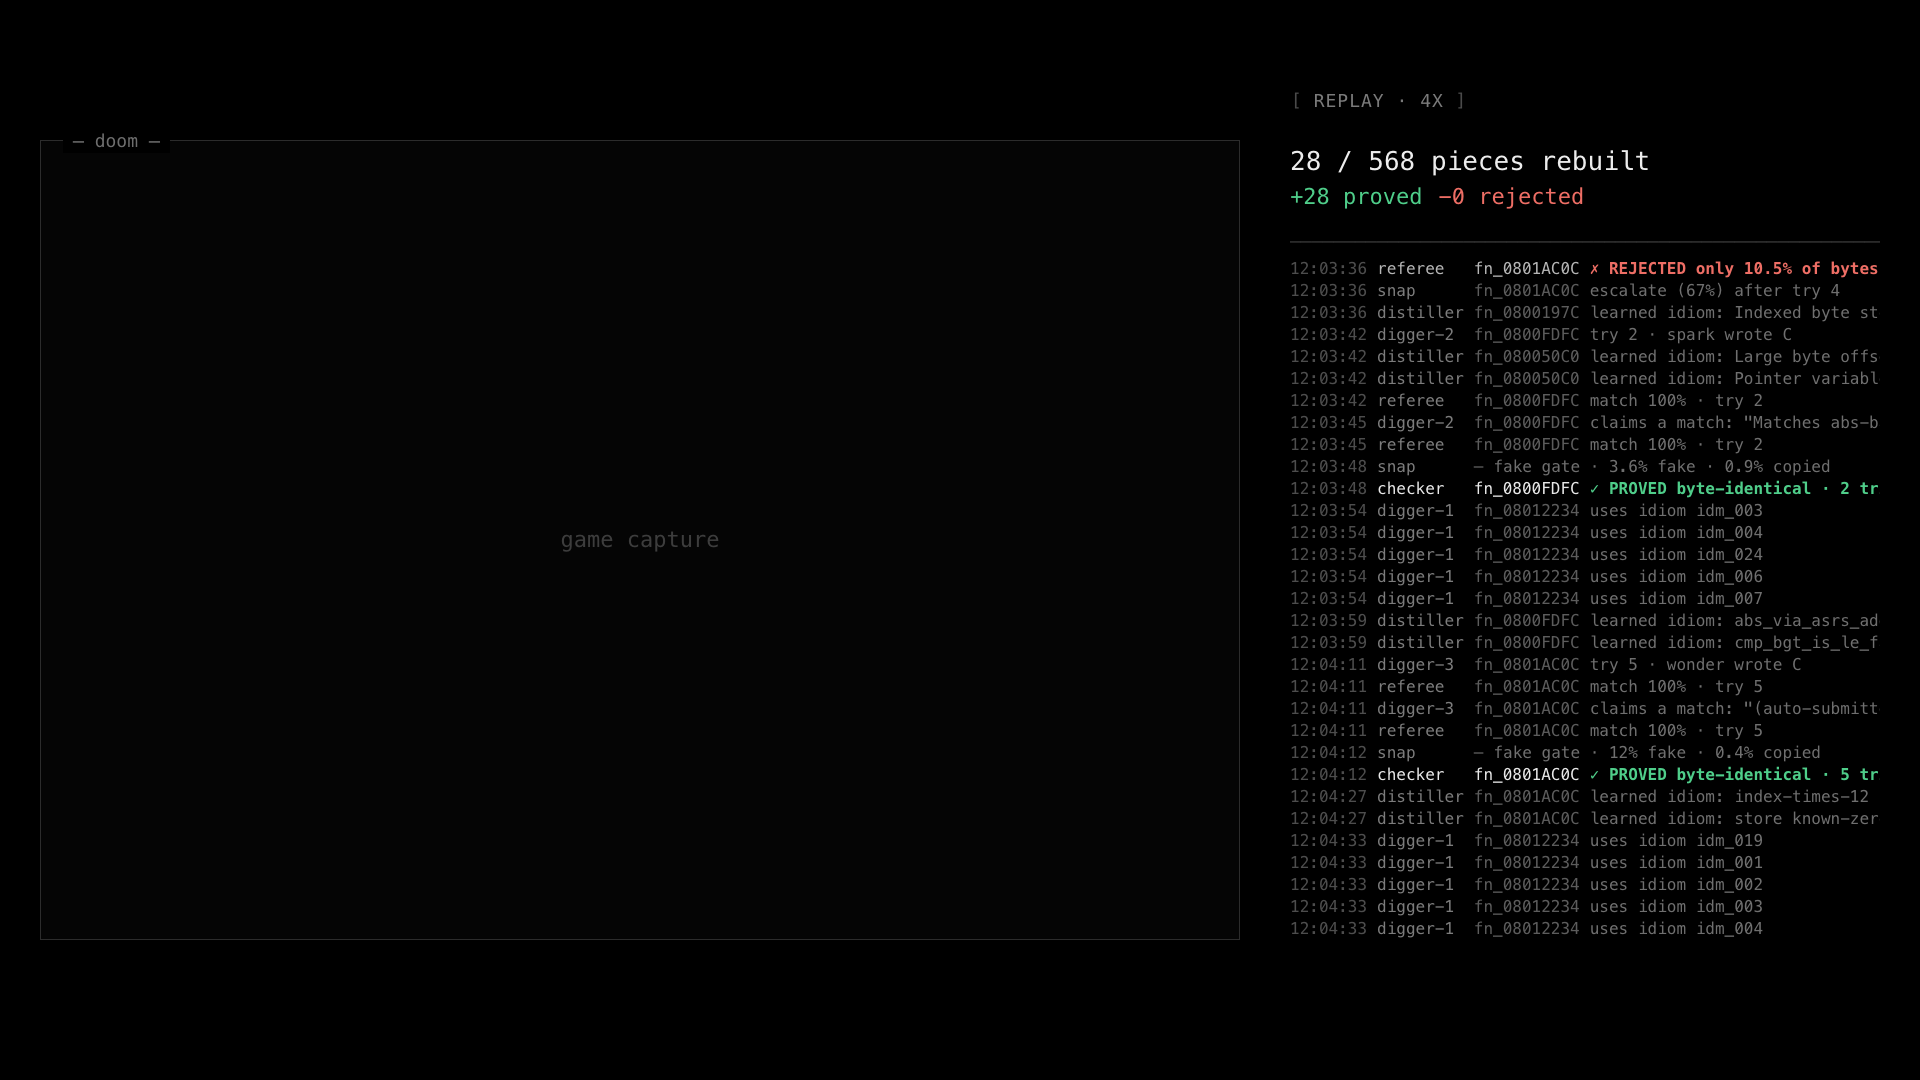
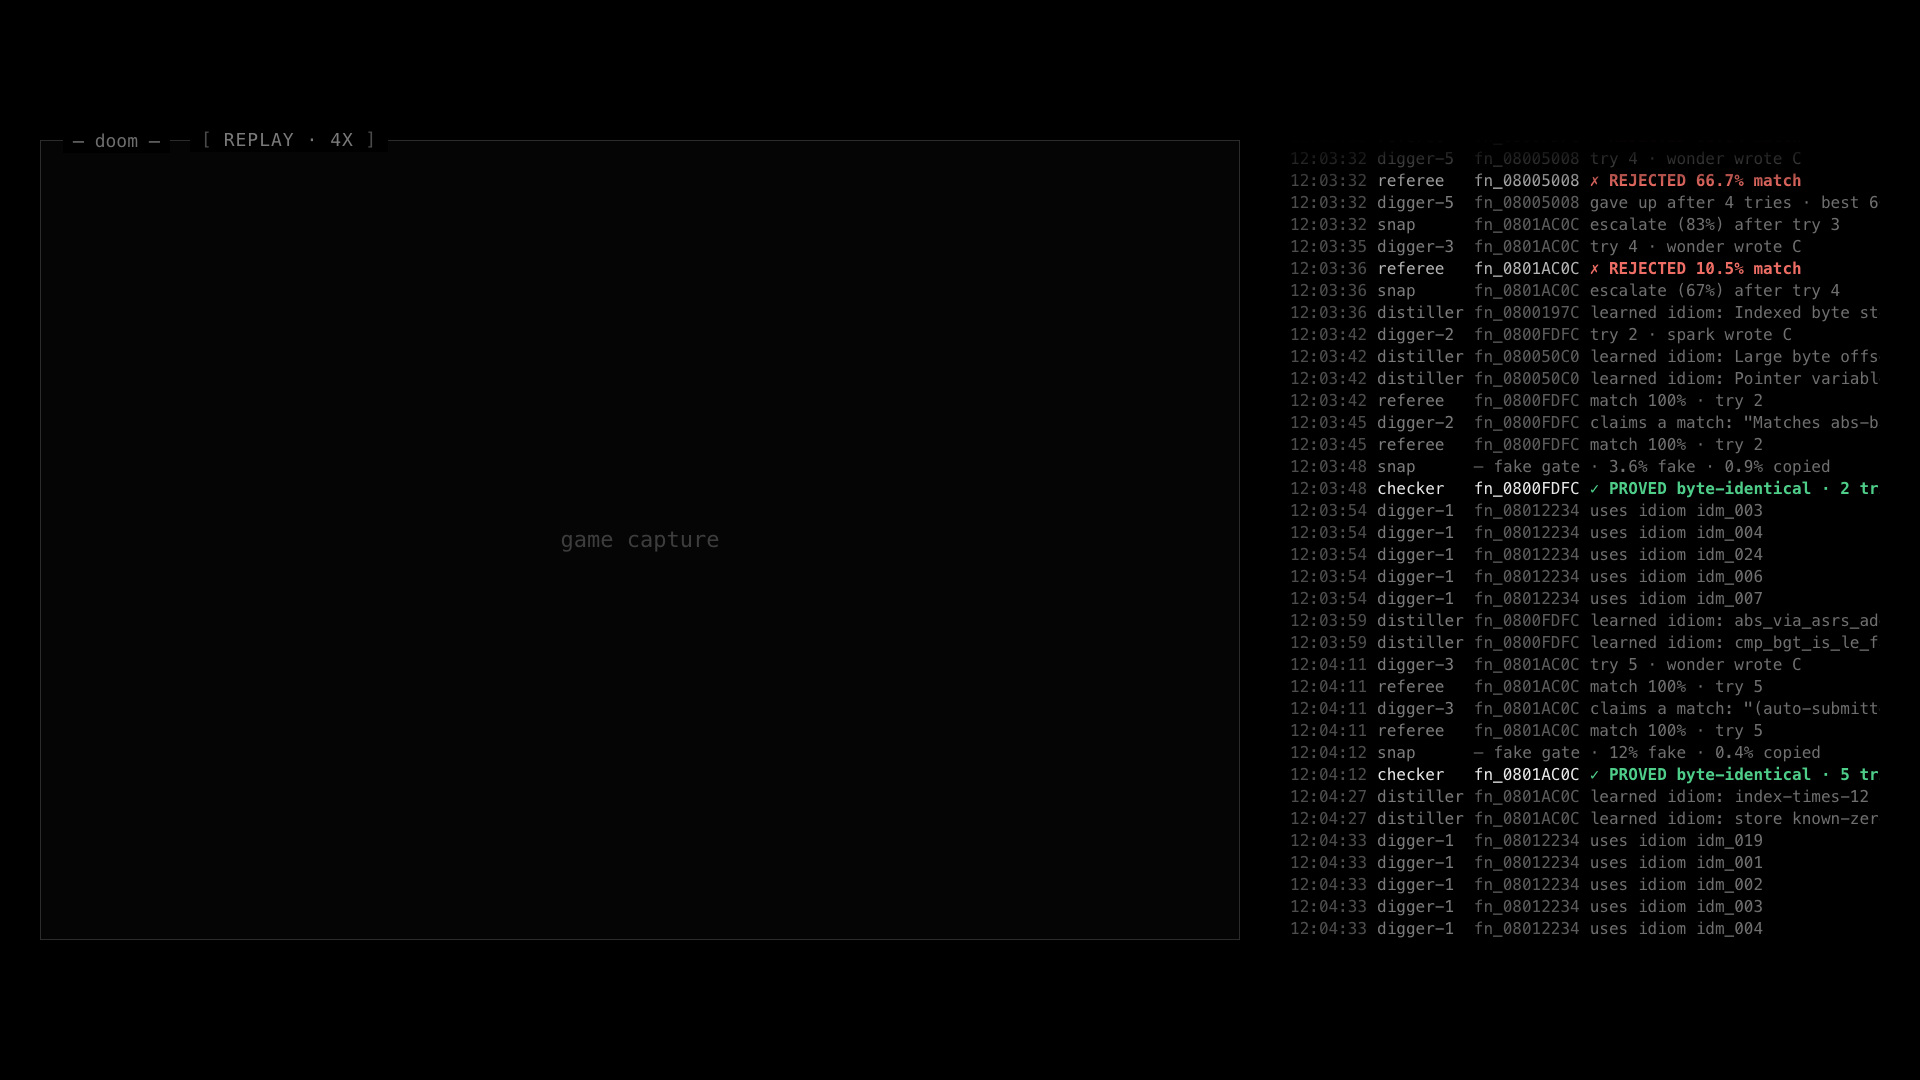
stage: drop the counter header; the log fills the column beside the game
The log now runs the full height of the game window, newest at the bottom,
with the oldest lines fading out at the top like a scrolling terminal.
REJECTED lines are shortened so they fit ('REJECTED 73.5% match'). The
REPLAY / SAMPLE DATA label moves into the game window's top border next to
'doom', so it stays visible.

Changed region(s): [[0.6562, 0.1222, 0.9688, 0.275], [0.125, 0.1222, 0.1562, 0.1528]]

diff --git a/stage/src/rawlog.ts b/stage/src/rawlog.ts
@@ -28,18 +28,18 @@ export function rawLine(e: Ev): RawLine | null {
     case 'attempt.submitted': return line(actor, `try ${p.attempt ?? '?'} · ${model(p.model) || 'muse'} wrote C`);
     case 'claim.made': return line(actor, `claims a match: "${cut(String(p.text ?? ''), 40)}"`);
     case 'verdict': {
-      if (p.fake_rejected === true) return line('checker', `✗ REJECTED fake: ${cut(String(p.reason ?? ''), 48)}`, 'rejected');
-      if (p.claim_was_true === false) return line('checker', `✗ REJECTED claimed right, ${pct(p.match_pct)} of bytes match`, 'rejected');
+      if (p.fake_rejected === true) return line('checker', `✗ REJECTED fake: ${cut(String(p.reason ?? ''), 26)}`, 'rejected');
+      if (p.claim_was_true === false) return line('checker', `✗ REJECTED claimed right · ${pct(p.match_pct)} match`, 'rejected');
       const st = String(p.status ?? '');
       if (st === 'MATCH') return line('referee', `match 100% · try ${p.attempt ?? '?'}`);
       if (st === 'PARTIAL') {
-        return line('referee', `✗ REJECTED only ${pct(p.match_pct)} of bytes match`, 'rejected');
+        return line('referee', `✗ REJECTED ${pct(p.match_pct)} match`, 'rejected');
       }
       if (st === 'NO_COMPILE') return line('referee', '✗ REJECTED does not compile', 'rejected');
-      if (st === 'LINT_FAIL') return line('referee', '✗ REJECTED breaks the no-cheating rules', 'rejected');
+      if (st === 'LINT_FAIL') return line('referee', '✗ REJECTED broke lint rules', 'rejected');
       return line('referee', st.toLowerCase());
     }
-    case 'fakematch.rejected': return line('checker', `✗ REJECTED fake: ${cut(String(p.reason ?? ''), 48)}`, 'rejected');
+    case 'fakematch.rejected': return line('checker', `✗ REJECTED fake: ${cut(String(p.reason ?? ''), 26)}`, 'rejected');
     case 'fn.matched': return line('checker', `✓ PROVED byte-identical · ${p.attempts ?? '?'} tries`, 'proved');
     case 'fn.abandoned': return line(actor, `gave up after ${p.attempts ?? '?'} tries · best ${pct(p.best_pct)}`);
     case 'snap.decision': {

diff --git a/stage/src/scenes/log.ts b/stage/src/scenes/log.ts
@@ -19,10 +19,6 @@ export class LogScene implements Scene {
       <div class="lg-game"><b class="ttl">doom</b>${game ? `<iframe src="${esc(game)}" allow="cross-origin-isolated; autoplay; gamepad; fullscreen"></iframe>` : '<span>game capture</span>'}</div>
       <div class="lg-side">
         <div class="lg-panel">
-          <div class="lg-head">
-            <span class="cnt"><b data-k="n">0</b> <span data-k="of">/ 568</span> pieces rebuilt</span>
-            <span class="tot"><em class="p" data-k="p">+0</em><em class="r" data-k="r">−0</em></span>
-          </div>
           <ol class="lg-raw" data-k="log"></ol>
         </div>
       </div>`;
@@ -36,11 +32,6 @@ export class LogScene implements Scene {
     const key = `${s.matched.length}/${total}|${s.raw.length}|${last?.ts}|${last?.text}`;
     if (key === this.memo) return;
     this.memo = key;
-    (this.el.querySelector('[data-k="n"]') as HTMLElement).textContent = String(s.matched.length);
-    (this.el.querySelector('[data-k="of"]') as HTMLElement).textContent = `/ ${total || '--'}`;
-    // diff-style totals: proved in green, rejected (real lies + fake rejections) in red
-    (this.el.querySelector('[data-k="p"]') as HTMLElement).textContent = `+${s.matched.length} proved`;
-    (this.el.querySelector('[data-k="r"]') as HTMLElement).textContent = `−${s.falseClaims.length + s.fakes.length} rejected`;
     // the machine log: newest at the bottom, the column clips the oldest at the top like a terminal
     const log = this.el.querySelector('[data-k="log"]') as HTMLElement;
     log.innerHTML = tail.length

diff --git a/stage/src/scenes/log.css b/stage/src/scenes/log.css
@@ -99,3 +99,12 @@ body.obs .lg-game .ttl { display: none; }
 .lg-raw li.rejected .w, .lg-raw li.rejected .f { color: #b5b5b5; }
 /* the counter line is one even run of text: no star, the number and the total look like the words */
 .lg-head .cnt, .lg-head .cnt b, .lg-head .cnt span { font-weight: 400; color: var(--ink); font-size: 26px; }
+
+/* no header: the log fills the column, top and bottom aligned with the game window */
+.lg-side { top: 140px; height: 800px; }
+.lg-panel { padding: 0; }
+.lg-raw { padding-top: 0; }
+/* the honesty label sits in the game window's top border, after "─ doom ─" */
+.stage[data-scene='log'] #mark { top: 128px; left: 190px; background: #000; padding: 0 10px; font-size: 18px; line-height: 24px; }
+.lg-raw li { height: 22px; } .lg-raw li .w { vertical-align: top; }
+.lg-raw { -webkit-mask-image: linear-gradient(to bottom, transparent 0, #000 48px); mask-image: linear-gradient(to bottom, transparent 0, #000 48px); }
